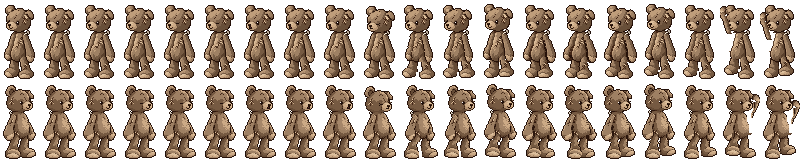
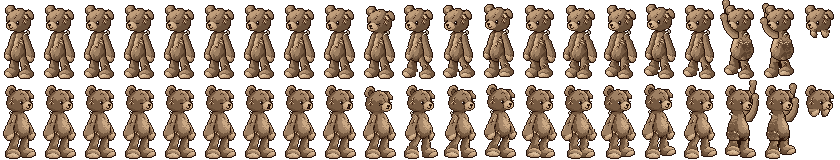
The bear in parts, and he climbs (1020q)
He's built from his parts sheets now instead of pieces cut out of his standing picture. Standing he's still his picture pixel for pixel, and in the walk the front arm swings out from behind his belly, a lifted leg is squashed instead of cut at the hip, and no step on a leg is more than a pixel. In the invite he climbs the lace up into his hole and peeks out of it. His rear parts are in the folder too, for later.

diff --git a/index.html b/index.html
@@ -11,8 +11,8 @@
 <style>
   /* Alegreya, the title menu's lettering, comes with the game (art/fonts, a Latin cut of it) so it looks the same offline
      or when Google Fonts can't load. SIL Open Font License, in Alegreya-OFL.txt next to it */
-  @font-face { font-family: 'Alegreya'; src: url(art/fonts/Alegreya.woff?v=1020p) format('woff'); font-weight: 400 900; font-style: normal; font-display: swap; }
-  @font-face { font-family: 'Alegreya'; src: url(art/fonts/Alegreya-Italic.woff?v=1020p) format('woff'); font-weight: 400 900; font-style: italic; font-display: swap; }
+  @font-face { font-family: 'Alegreya'; src: url(art/fonts/Alegreya.woff?v=1020q) format('woff'); font-weight: 400 900; font-style: normal; font-display: swap; }
+  @font-face { font-family: 'Alegreya'; src: url(art/fonts/Alegreya-Italic.woff?v=1020q) format('woff'); font-weight: 400 900; font-style: italic; font-display: swap; }
   /* one dark toy-room look for the whole page: the game screen, a strip of controls under it, a tuning drawer */
   :root {
     --bg: #12131c; --panel: #1d2030; --line: #343a55; --fg: #e8e6f0; --dim: #9aa0bb;
@@ -55,7 +55,7 @@
   .overlay .small { color: var(--dim); font-size: 13px; max-width: 46ch; margin-inline: auto; }
   /* the title card (10/17/2026, Moonlit Grime v5): the painting fills the start screen, the title's in it, so the
      words above it are kept for screen readers only and the start note sits low over the bottom of the picture */
-  #start { background: #07080e url(art/title/title_card.jpg?v=1020p) center / contain no-repeat; place-items: end end; text-align: right; }
+  #start { background: #07080e url(art/title/title_card.jpg?v=1020q) center / contain no-repeat; place-items: end end; text-align: right; }
   #start > div:not(#title) { margin: 0 max(2%, 10px) max(2%, 10px) 0; max-width: min(38ch, 46%); padding: 8px 14px 9px; border-radius: 8px; background: rgba(7, 8, 14, .74); }   /* (bottom right, over the water: Phill's in the middle) */
   #start h1, #start .sub { position: absolute; width: 1px; height: 1px; overflow: hidden; clip: rect(0 0 0 0); white-space: nowrap; }
   #start .small { font-size: 12px; margin-inline: 0; }
@@ -64,7 +64,7 @@
      bigger box in the middle with the picture blurred and dimmed behind it. Made to go with the painting
      (10/17/2026): night blue panels with a little paper grain, cream storybook lettering, a thin worn gold edge. The night
      blue also fills round the picture where the screen's a different shape */
-  body.titlemenu #start { cursor: default; background-color: #0a1323; background-image: url(art/title/title_card.jpg?v=1020p), radial-gradient(ellipse at 50% 35%, #13213a 0%, #0b1426 55%, #070c17 100%); background-size: contain, cover; background-repeat: no-repeat; background-position: center, 0 0; }
+  body.titlemenu #start { cursor: default; background-color: #0a1323; background-image: url(art/title/title_card.jpg?v=1020q), radial-gradient(ellipse at 50% 35%, #13213a 0%, #0b1426 55%, #070c17 100%); background-size: contain, cover; background-repeat: no-repeat; background-position: center, 0 0; }
   body.titlemenu #start > div:not(#title) { display: none; }
   #title { position: absolute; inset: 0; pointer-events: none; font-family: 'Alegreya', Georgia, 'Palatino Linotype', 'Book Antiqua', serif; --cream: #f2e7cd; --gold: #e4c07a; --muted: #b9ad92; --night: 11, 20, 38; }
   /* the picture's edges melt into the night blue */
@@ -227,67 +227,67 @@
   </div>
 </div>
 <!-- the game's code. Rooms aren't listed here: they load one at a time as Phill gets near them -->
-<script>window.BUILD = '1020p';   // bump on every update: every script, room file and picture is asked for with it, so a browser never keeps an old copy</script>
-<script src="art/phill/phill_frames.js?v=1020p"></script>
-<script src="art/crow/crow_frames.js?v=1020p"></script>
-<script src="art/bear/bear_frames.js?v=1020p"></script>
-<script src="rooms/index.js?v=1020p"></script>
-<script src="rooms/map.js?v=1020p"></script>
-<script src="art/rootwood/rootwood_sprites.js?v=1020p"></script>
-<script src="art/rootwood/soldier_sprites.js?v=1020p"></script>
-<script src="art/pond/pond_sprites.js?v=1020p"></script>
-<script src="art/playground/playground_sprites.js?v=1020p"></script>
-<script src="art/oak/oak_sprites.js?v=1020p"></script>
-<script src="art/wildlife/wildlife.js?v=1020p"></script>
-<script src="art/hitmasks.js?v=1020p"></script>
-<script src="art/warren/warren_sprites.js?v=1020p"></script>
-<script src="art/greenhouse/greenhouse_sprites.js?v=1020p"></script>
-<script src="art/hive/hive_sprites.js?v=1020p"></script>
-<script src="js/config.js?v=1020p"></script>
-<script src="js/input.js?v=1020p"></script>
-<script src="js/audio.js?v=1020p"></script>
-<script src="js/assets.js?v=1020p"></script>
-<script src="js/fx.js?v=1020p"></script>
-<script src="js/world.js?v=1020p"></script>
-<script src="js/rooms.js?v=1020p"></script>
-<script src="js/player.js?v=1020p"></script>
-<script src="js/story.js?v=1020p"></script>
-<script src="js/idle.js?v=1020p"></script>
-<script src="js/scene.js?v=1020p"></script>
-<script src="js/scenes/opening.js?v=1020p"></script>
-<script src="js/font.js?v=1020p"></script>
-<script src="js/talk.js?v=1020p"></script>
-<script src="js/pins.js?v=1020p"></script>
-<script src="js/foes.js?v=1020p"></script>
-<script src="js/boss.js?v=1020p"></script>
-<script src="js/pond.js?v=1020p"></script>
-<script src="js/pond_bosses.js?v=1020p"></script>
-<script src="js/rootwood.js?v=1020p"></script>
-<script src="js/rootwood_foes2.js?v=1020p"></script>
-<script src="js/rootwood_plants.js?v=1020p"></script>
-<script src="js/oak.js?v=1020p"></script>
-<script src="js/wildlife.js?v=1020p"></script>
-<script src="js/oak_bosses.js?v=1020p"></script>
-<script src="js/playground.js?v=1020p"></script>
-<script src="js/playground_bosses.js?v=1020p"></script>
-<script src="js/moves2.js?v=1020p"></script>
-<script src="js/map.js?v=1020p"></script>
-<script src="js/scenes/rootwood.js?v=1020p"></script>
-<script src="js/camera.js?v=1020p"></script>
-<script src="js/render.js?v=1020p"></script>
-<script src="js/warren.js?v=1020p"></script>
-<script src="js/greenhouse.js?v=1020p"></script>
-<script src="js/greenhouse_foes.js?v=1020p"></script>
-<script src="js/greenhouse_boss.js?v=1020p"></script>
-<script src="js/hive.js?v=1020p"></script>
-<script src="js/hive_foes.js?v=1020p"></script>
-<script src="js/hive_bosses.js?v=1020p"></script>
-<script src="js/bear.js?v=1020p"></script>
-<script src="js/ui.js?v=1020p"></script>
-<script src="js/main.js?v=1020p"></script>
-<script src="js/touch.js?v=1020p"></script>
-<script src="js/areas.js?v=1020p"></script>
-<script src="js/debug.js?v=1020p"></script>
-<script src="js/menu.js?v=1020p"></script>
+<script>window.BUILD = '1020q';   // bump on every update: every script, room file and picture is asked for with it, so a browser never keeps an old copy</script>
+<script src="art/phill/phill_frames.js?v=1020q"></script>
+<script src="art/crow/crow_frames.js?v=1020q"></script>
+<script src="art/bear/bear_frames.js?v=1020q"></script>
+<script src="rooms/index.js?v=1020q"></script>
+<script src="rooms/map.js?v=1020q"></script>
+<script src="art/rootwood/rootwood_sprites.js?v=1020q"></script>
+<script src="art/rootwood/soldier_sprites.js?v=1020q"></script>
+<script src="art/pond/pond_sprites.js?v=1020q"></script>
+<script src="art/playground/playground_sprites.js?v=1020q"></script>
+<script src="art/oak/oak_sprites.js?v=1020q"></script>
+<script src="art/wildlife/wildlife.js?v=1020q"></script>
+<script src="art/hitmasks.js?v=1020q"></script>
+<script src="art/warren/warren_sprites.js?v=1020q"></script>
+<script src="art/greenhouse/greenhouse_sprites.js?v=1020q"></script>
+<script src="art/hive/hive_sprites.js?v=1020q"></script>
+<script src="js/config.js?v=1020q"></script>
+<script src="js/input.js?v=1020q"></script>
+<script src="js/audio.js?v=1020q"></script>
+<script src="js/assets.js?v=1020q"></script>
+<script src="js/fx.js?v=1020q"></script>
+<script src="js/world.js?v=1020q"></script>
+<script src="js/rooms.js?v=1020q"></script>
+<script src="js/player.js?v=1020q"></script>
+<script src="js/story.js?v=1020q"></script>
+<script src="js/idle.js?v=1020q"></script>
+<script src="js/scene.js?v=1020q"></script>
+<script src="js/scenes/opening.js?v=1020q"></script>
+<script src="js/font.js?v=1020q"></script>
+<script src="js/talk.js?v=1020q"></script>
+<script src="js/pins.js?v=1020q"></script>
+<script src="js/foes.js?v=1020q"></script>
+<script src="js/boss.js?v=1020q"></script>
+<script src="js/pond.js?v=1020q"></script>
+<script src="js/pond_bosses.js?v=1020q"></script>
+<script src="js/rootwood.js?v=1020q"></script>
+<script src="js/rootwood_foes2.js?v=1020q"></script>
+<script src="js/rootwood_plants.js?v=1020q"></script>
+<script src="js/oak.js?v=1020q"></script>
+<script src="js/wildlife.js?v=1020q"></script>
+<script src="js/oak_bosses.js?v=1020q"></script>
+<script src="js/playground.js?v=1020q"></script>
+<script src="js/playground_bosses.js?v=1020q"></script>
+<script src="js/moves2.js?v=1020q"></script>
+<script src="js/map.js?v=1020q"></script>
+<script src="js/scenes/rootwood.js?v=1020q"></script>
+<script src="js/camera.js?v=1020q"></script>
+<script src="js/render.js?v=1020q"></script>
+<script src="js/warren.js?v=1020q"></script>
+<script src="js/greenhouse.js?v=1020q"></script>
+<script src="js/greenhouse_foes.js?v=1020q"></script>
+<script src="js/greenhouse_boss.js?v=1020q"></script>
+<script src="js/hive.js?v=1020q"></script>
+<script src="js/hive_foes.js?v=1020q"></script>
+<script src="js/hive_bosses.js?v=1020q"></script>
+<script src="js/bear.js?v=1020q"></script>
+<script src="js/ui.js?v=1020q"></script>
+<script src="js/main.js?v=1020q"></script>
+<script src="js/touch.js?v=1020q"></script>
+<script src="js/areas.js?v=1020q"></script>
+<script src="js/debug.js?v=1020q"></script>
+<script src="js/menu.js?v=1020q"></script>
 </body>
 </html>

diff --git a/js/bear.js b/js/bear.js
@@ -54,6 +54,17 @@ const bearWalkTo = (x, pace = BEAR_PACE) => {
     return false;
   };
 };
+// climbing the lace (10/21/2026): bearClimb is a scene step. From under the lace he goes up it, a pull every BEAR_PULL
+// seconds, till he's in his hole, then he's peeking out of it
+const BEAR_PULL = 0.3, BEAR_CLIMB_PACE = 34;
+const bearClimb = () => (t, dt) => {
+  const a = actors.bear, h = room.def.bearhole; if (!a || !h) return true;
+  if (t === 0) { a.climb = { t: 0 }; a.face = h.cx < a.x ? 'L' : 'R'; a.x = h.x + (a.face === 'L' ? 16 : -16); }   // (the lace runs up 4 px in from the side of his picture that he's facing: both paws on it)
+  const was = Math.floor(a.climb.t / BEAR_PULL); a.climb.t += dt || 0; a.y -= BEAR_CLIMB_PACE * (dt || 0);
+  if (Math.floor(a.climb.t / BEAR_PULL) !== was && a.y > h.cy + 16) sfx.rustle(0.25);   // a little rustle each pull, while he's still out on the lace
+  if (a.y <= h.cy - 18) { a.climb = null; a.peek = true; a.face = 'L'; a.pose = null; return true; }   // his feet past the top of the hole: he's in
+  return false;
+};
 function drawBearPic(im, name, x, y) {
   const F = window.BEAR_FRAMES, fr = F && F.frames[name];
   if (!fr) return;
@@ -63,10 +74,15 @@ function drawBearPic(im, name, x, y) {
 function drawBear(a) {
   const im = Assets.get(BEAR_SHEET);
   if (!im) return;
-  if (a.peek) {                                                                        // just his head, poking out of his hole
-    const h = room.def.bearhole; if (!h) return;
+  const h = room.def.bearhole;
+  if (a.peek && h) {                                                                   // his head poking out of his hole, paws on the rim (10/21/2026: its own picture)
     ctx.save(); ctx.beginPath(); ctx.ellipse(h.cx, h.cy, 12, 16, 0, 0, Math.PI * 2); ctx.clip();
-    drawBearPic(im, bearFrame(a), h.cx + 2, h.cy + 62);
+    drawBearPic(im, 'peek_' + (a.face || 'L'), h.cx + 2, h.cy + 56);
+    ctx.restore(); return;
+  }
+  if (a.climb && h) {                                                                  // going up the lace into his hole: only what's below the hole or inside it shows, so he goes in (10/21/2026)
+    ctx.save(); ctx.beginPath(); ctx.rect(h.cx - 200, h.cy + 16, 400, 600); ctx.ellipse(h.cx, h.cy, 12, 16, 0, 0, Math.PI * 2); ctx.clip();
+    drawBearPic(im, 'climb_' + (Math.floor(a.climb.t / BEAR_PULL) % 2 + 1) + '_' + (a.face || 'L'), a.x, a.y);
     ctx.restore(); return;
   }
   groundShadow(a.x, a.y, 60, 13);
@@ -302,10 +318,10 @@ SCENES.bearInvite = def => {
     say('bear', 'I put that over the brambles for you.', "So you don't get scratched, coming and going."),
     camTo(iv.x + side * 20, iv.y - 60, 0.6),
     say('bear', 'Okay. Okay, good.', "Give me a second. I'll tidy up a bit."),
-    bearWalkTo(h.x - 14), wait(0.2),                                              // over to the lace (10/21/2026)
-    fadeTo(1, 0.4),
-    run(() => { const a = actors.bear; if (a) Object.assign(a, { peek: true, face: 'L', pose: null }); world.flags.bearInvited = true; world.flags.metBear = true; saveWorld(); }),
-    wait(0.4), fadeTo(0, 0.4), camTo(h.cx - 20, h.cy + 30, 0.6), wait(0.3),
+    bearWalkTo(h.x + 16), wait(0.3),                                              // over to the lace (10/21/2026), the far side of it so he climbs facing Phill's way
+    together(bearClimb(), camTo(h.cx - 20, h.cy + 30, 2.5)),                     // and up it, into his hole
+    run(() => { world.flags.bearInvited = true; world.flags.metBear = true; saveWorld(); }),
+    wait(0.5),
     say('bear', 'Come on up.'),
     camBack(), bars(false), run(() => music.play(room.def.music)),
   ];

diff --git a/art/bear/bear_frames.js b/art/bear/bear_frames.js
@@ -1,2 +1,2 @@
 // the bear's frames: where each picture sits on bear.png. Made by Sprites/bear_sprites.py, don't edit by hand.
-window.BEAR_FRAMES = {"w":40,"h":80,"feet":[20,80],"frames":{"idle_0_L":[0,0],"idle_1_L":[40,0],"idle_2_L":[80,0],"blink_0_L":[120,0],"blink_1_L":[160,0],"blink_2_L":[200,0],"talk_0_L":[240,0],"talk_1_L":[280,0],"talk_2_L":[320,0],"flinch_L":[360,0],"walk_0_L":[400,0],"walk_1_L":[440,0],"walk_2_L":[480,0],"walk_3_L":[520,0],"walk_4_L":[560,0],"walk_5_L":[600,0],"walk_6_L":[640,0],"walk_7_L":[680,0],"climb_1_L":[720,0],"climb_2_L":[760,0],"idle_0_R":[0,80],"idle_1_R":[40,80],"idle_2_R":[80,80],"blink_0_R":[120,80],"blink_1_R":[160,80],"blink_2_R":[200,80],"talk_0_R":[240,80],"talk_1_R":[280,80],"talk_2_R":[320,80],"flinch_R":[360,80],"walk_0_R":[400,80],"walk_1_R":[440,80],"walk_2_R":[480,80],"walk_3_R":[520,80],"walk_4_R":[560,80],"walk_5_R":[600,80],"walk_6_R":[640,80],"walk_7_R":[680,80],"climb_1_R":[720,80],"climb_2_R":[760,80]}};
+window.BEAR_FRAMES = {"w":40,"h":80,"feet":[20,80],"frames":{"idle_0_L":[0,0],"idle_1_L":[40,0],"idle_2_L":[80,0],"blink_0_L":[120,0],"blink_1_L":[160,0],"blink_2_L":[200,0],"talk_0_L":[240,0],"talk_1_L":[280,0],"talk_2_L":[320,0],"flinch_L":[360,0],"walk_0_L":[400,0],"walk_1_L":[440,0],"walk_2_L":[480,0],"walk_3_L":[520,0],"walk_4_L":[560,0],"walk_5_L":[600,0],"walk_6_L":[640,0],"walk_7_L":[680,0],"climb_1_L":[720,0],"climb_2_L":[760,0],"peek_L":[800,0],"idle_0_R":[0,80],"idle_1_R":[40,80],"idle_2_R":[80,80],"blink_0_R":[120,80],"blink_1_R":[160,80],"blink_2_R":[200,80],"talk_0_R":[240,80],"talk_1_R":[280,80],"talk_2_R":[320,80],"flinch_R":[360,80],"walk_0_R":[400,80],"walk_1_R":[440,80],"walk_2_R":[480,80],"walk_3_R":[520,80],"walk_4_R":[560,80],"walk_5_R":[600,80],"walk_6_R":[640,80],"walk_7_R":[680,80],"climb_1_R":[720,80],"climb_2_R":[760,80],"peek_R":[800,80]}};
